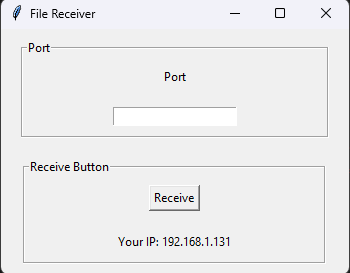
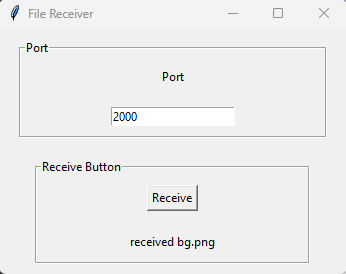
updated receiver_gui.py

diff --git a/receiver_gui.py b/receiver_gui.py
@@ -41,11 +41,11 @@ local_ip = get_local_ip()
 notification.config(text="Your IP: "+local_ip)
 
 def Receive():
-    notification.config(text="receiving...")
+    notification.config(text="port: " + port_entry.get() + " is listning...")
 
     server = socket.socket(socket.AF_INET, socket.SOCK_STREAM) # creating a socket
 
-    server.bind((local_ip, 9999)) # give the IP and Port for new socket
+    server.bind((local_ip, int(port_entry.get()))) # give the IP and Port for new socket
     server.listen() # listning in port 9999
 
     client, addr = server.accept() # accepting any file comming through that socket
